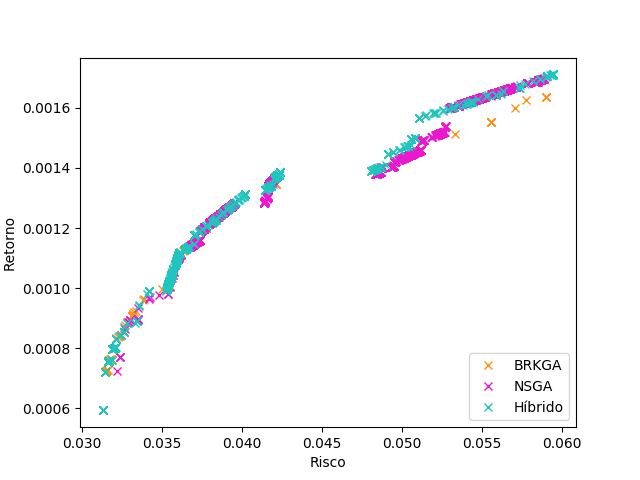
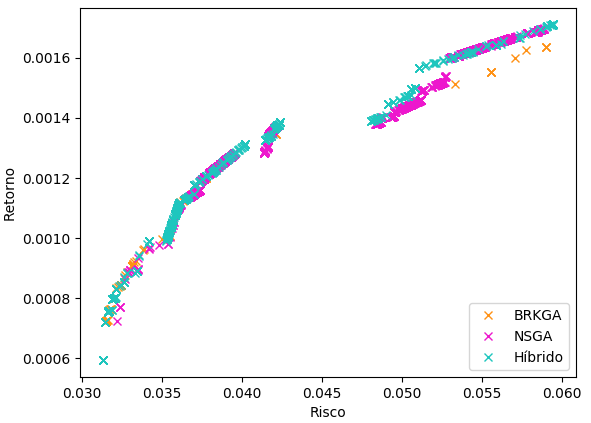
versus?

diff --git a/tcc/fronteiras/grafico.py b/tcc/fronteiras/grafico.py
@@ -14,21 +14,49 @@ ax.set_xlabel('Risco')
 ax.set_ylabel('Retorno')
 ax.yaxis.set_major_formatter(FormatStrFormatter('%.4f'))
 
-with open('../dados-com-params/{0}-{1}'.format(alg, n)) as arq:
+with open('../dados-sem-params/{0}-3'.format(alg)) as arq:
 	linhas = arq.readlines()
 	x = [float(linha.split()[0]) for linha in linhas]
 	y = [float(linha.split()[1]) for linha in linhas]
 
-ax.plot(x, y, 'x', c = '#ff9114', label = u'Com Parametrização Adaptativa')
+ax.plot(x, y, 'x', c = '#ed17cd', label = u'3')
 
-with open('../dados-sem-params/{0}-{1}'.format(alg, n)) as arq:
+with open('../dados-com-params/{0}-3'.format(alg)) as arq:
 	linhas = arq.readlines()
 	x = [float(linha.split()[0]) for linha in linhas]
 	y = [float(linha.split()[1]) for linha in linhas]
 
-ax.plot(x, y, 'x', c = '#ed17cd', label = u'Sem Parametrização Adaptativa')
+ax.plot(x, y, 'x', c = '#ff9114', label = u'3*')
 
-# with open('hibrido-{0}'.format(n)) as arq:
+with open('../dados-sem-params/{0}-9'.format(alg)) as arq:
+	linhas = arq.readlines()
+	x = [float(linha.split()[0]) for linha in linhas]
+	y = [float(linha.split()[1]) for linha in linhas]
+
+ax.plot(x, y, 'x', c = '#dbca0d', label = u'9')
+
+with open('../dados-com-params/{0}-9'.format(alg)) as arq:
+	linhas = arq.readlines()
+	x = [float(linha.split()[0]) for linha in linhas]
+	y = [float(linha.split()[1]) for linha in linhas]
+
+ax.plot(x, y, 'x', c = '#34d8c5', label = u'9*')
+
+with open('../dados-sem-params/{0}-15'.format(alg)) as arq:
+	linhas = arq.readlines()
+	x = [float(linha.split()[0]) for linha in linhas]
+	y = [float(linha.split()[1]) for linha in linhas]
+
+ax.plot(x, y, 'x', c = '#ca0ddb', label = u'15')
+
+with open('../dados-com-params/{0}-15'.format(alg)) as arq:
+	linhas = arq.readlines()
+	x = [float(linha.split()[0]) for linha in linhas]
+	y = [float(linha.split()[1]) for linha in linhas]
+
+ax.plot(x, y, 'x', c = '#1edb0d', label = u'15*')
+
+# with open('hibrido-{0}''.format(n)') as arq:
 # 	linhas = arq.readlines()
 # 	x = [float(linha.split()[0]) for linha in linhas]
 # 	y = [float(linha.split()[1]) for linha in linhas]
@@ -38,4 +66,4 @@ ax.plot(x, y, 'x', c = '#ed17cd', label = u'Sem Parametrização Adaptativa')
 leg = ax.legend(loc = 4)
 
 # plt.show()
-plt.savefig(titulo + '-com-busca-local.png')
+plt.savefig(titulo + '-versus.png')
